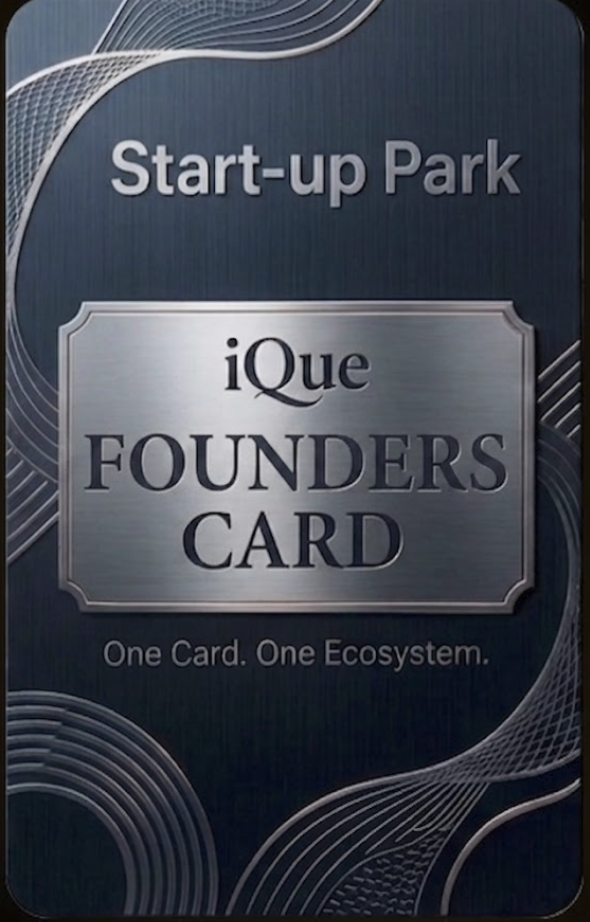
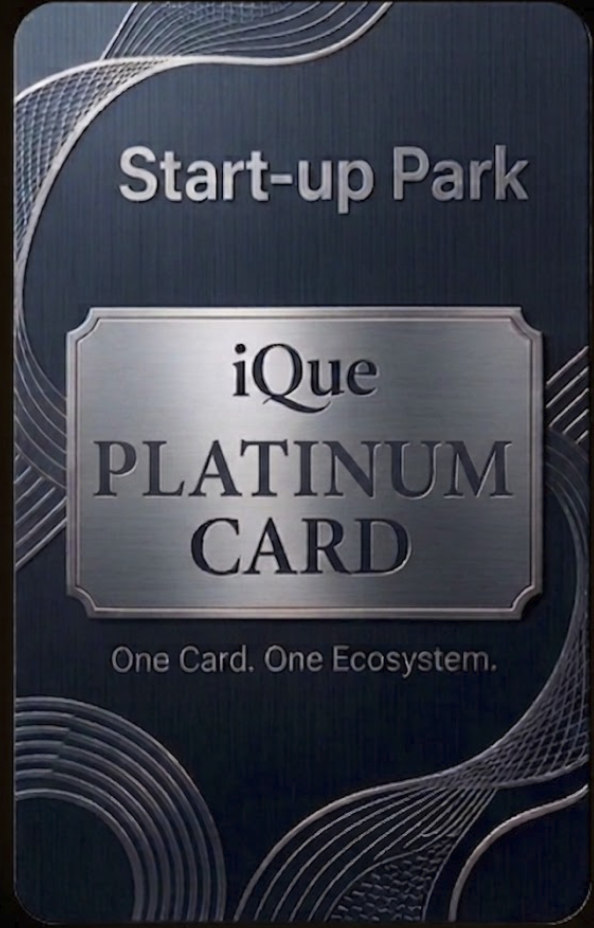
cards

diff --git a/src/Pages/InvestorCard.jsx b/src/Pages/InvestorCard.jsx
@@ -1,17 +1,5 @@
-import React, { Suspense } from "react";
-import { Canvas } from "@react-three/fiber";
-import { useGLTF, Center, Float, Environment } from "@react-three/drei";
+import React from "react";
 import { CheckCircle2 } from "lucide-react";
-
-function FoundersCard() {
-  const { scene } = useGLTF("/card.glb");
-
-  return (
-    <Center>
-      <primitive object={scene} scale={1.4} />
-    </Center>
-  );
-}
 
 const benefits = [
   "1 seat for 1 month at Startup Park",
@@ -38,7 +26,7 @@ export default function CardSections({ onPreBook }) {
           {/* ── TOP SECTION: Cards side-by-side ── */}
           <div className="flex flex-col lg:flex-row items-center justify-center gap-8 lg:gap-12">
 
-            {/* ── Card 1: 3D Founders Card ── */}
+            {/* ── Card 1: Investors Card (image) ── */}
             <div className="flex flex-col items-center gap-4 w-full lg:w-auto">
               {/* Live badge */}
               <span className="inline-flex items-center gap-1.5 px-3 py-1 rounded-full border border-blue-500/40 bg-blue-500/10 text-blue-400 text-[10px] font-semibold uppercase tracking-widest">
@@ -46,26 +34,19 @@ export default function CardSections({ onPreBook }) {
                 Available Now
               </span>
 
-              {/* 3D Canvas - Fixed mobile height to prevent vh squishing */}
-              <div className="h-[380px] lg:h-[52vh] w-full max-w-xs lg:max-w-sm">
-                <Canvas
-                  camera={{ position: [0, 0, 5], fov: 40 }}
-                  dpr={[1, 1.25]}
-                  gl={{ antialias: false, powerPreference: "high-performance" }}
-                >
-                  <ambientLight intensity={0.5} />
-                  <pointLight position={[10, 10, 10]} intensity={1.2} color="#3b82f6" />
-                  <directionalLight position={[-5, 5, -2]} intensity={0.6} color="#6366f1" />
-                  <Suspense fallback={null}>
-                    <Float speed={1.2} rotationIntensity={0} floatIntensity={0.3}>
-                      <FoundersCard />
-                    </Float>
-                    <Environment preset="studio" />
-                  </Suspense>
-                </Canvas>
+              {/* Card image with float animation */}
+              <div className="relative h-[380px] lg:h-[52vh] w-full max-w-xs lg:max-w-sm flex items-center justify-center">
+                <div className="relative w-[80%] max-w-[260px] animate-float-card">
+                  <img
+                    src="/goldcard.png"
+                    alt="Investors Card"
+                    className="w-full h-auto object-contain drop-shadow-[0_8px_40px_rgba(59,130,246,0.25)] rounded-2xl"
+                    style={{ filter: "drop-shadow(0 0 24px rgba(59,130,246,0.18))" }}
+                  />
+                </div>
               </div>
 
-              <p className="text-neutral-400 text-xs tracking-wide font-medium">Investors Card</p>
+              <p className="text-neutral-400 text-xs tracking-wide font-medium">Investors Card Gold</p>
             </div>
 
             {/* ── Divider (vertical on desktop, horizontal on mobile) ── */}
@@ -88,13 +69,13 @@ export default function CardSections({ onPreBook }) {
                 Coming Soon
               </span>
 
-              {/* Card image with glow + shimmer overlay - Fixed mobile height */}
+              {/* Card image with glow + shimmer overlay */}
               <div className="relative h-[380px] lg:h-[52vh] w-full max-w-xs lg:max-w-sm flex items-center justify-center">
 
                 {/* Ambient glow behind card */}
                 <div className="absolute inset-0 rounded-2xl bg-gradient-to-br from-amber-500/10 via-transparent to-yellow-600/10 blur-2xl pointer-events-none" />
 
-                {/* Floating animation wrapper - Class conditionally animate via CSS */}
+                {/* Floating animation wrapper */}
                 <div className="relative w-[80%] max-w-[260px] animate-float-card">
                   {/* Frosted lock overlay */}
                   <div className="absolute inset-0 rounded-2xl z-10 bg-black/20 backdrop-blur-[1px] flex flex-col items-center justify-center gap-2 opacity-0 hover:opacity-100 transition-opacity duration-300">
@@ -114,7 +95,7 @@ export default function CardSections({ onPreBook }) {
 
                   {/* Actual card image */}
                   <img
-                    src="/investor.png"
+                    src="/founderscard.png"
                     alt="Premium Investor Card – Coming Soon"
                     className="w-full h-auto object-contain drop-shadow-[0_8px_40px_rgba(251,191,36,0.25)] rounded-2xl"
                     style={{ filter: "drop-shadow(0 0 24px rgba(251,191,36,0.18))" }}
@@ -122,7 +103,7 @@ export default function CardSections({ onPreBook }) {
                 </div>
               </div>
 
-              <p className="text-neutral-400 text-xs tracking-wide font-medium">Investor Card Gold</p>
+              <p className="text-neutral-400 text-xs tracking-wide font-medium">Investor Card Platinum</p>
             </div>
           </div>
 
@@ -134,7 +115,7 @@ export default function CardSections({ onPreBook }) {
               <h1 className="text-4xl md:text-5xl font-extrabold tracking-tight text-neutral-100 leading-tight">
                 The Next Gen <br />
                 <span className="text-transparent bg-clip-text bg-gradient-to-r from-neutral-100 to-neutral-400">
-                  Investor Card
+                  Investor Card 
                 </span>
               </h1>
               <p className="text-neutral-400 text-base leading-relaxed font-normal max-w-xl">
@@ -180,7 +161,6 @@ export default function CardSections({ onPreBook }) {
           0% { transform: translateX(-100%); }
           60%, 100% { transform: translateX(200%); }
         }
-        /* Mobile-static toggle */
         .animate-float-card {
           animation: floatY 3.5s ease-in-out infinite;
         }
@@ -194,5 +174,3 @@ export default function CardSections({ onPreBook }) {
     </>
   );
 }
-
-useGLTF.preload("/card.glb");

diff --git a/src/Pages/Membership.jsx b/src/Pages/Membership.jsx
@@ -1,17 +1,5 @@
-import React, { Suspense } from "react";
-import { Canvas } from "@react-three/fiber";
-import { useGLTF, Center, Float, Environment } from "@react-three/drei";
+import React from "react";
 import { CheckCircle2 } from "lucide-react";
-
-function FoundersCard() {
-  const { scene } = useGLTF("/card.glb");
-
-  return (
-    <Center>
-      <primitive object={scene} scale={1.4} />
-    </Center>
-  );
-}
 
 const benefits = [
   "1 seat for 1 month at Startup Park",
@@ -20,7 +8,7 @@ const benefits = [
   "Branding and personal branding benefits",
   "Media and advertising support",
   "Incubation workshop access",
-  "Founders community membership",
+  "Inverstors community membership",
   "Startup tools and software offers",
   "Skill and career support",
   "HR training",
@@ -38,7 +26,7 @@ export default function CardSections({ onPreBook }) {
           {/* ── TOP SECTION: Cards side-by-side ── */}
           <div className="flex flex-col lg:flex-row items-center justify-center gap-8 lg:gap-12">
 
-            {/* ── Card 1: 3D Founders Card ── */}
+            {/* ── Card 1: Investors Card (image) ── */}
             <div className="flex flex-col items-center gap-4 w-full lg:w-auto">
               {/* Live badge */}
               <span className="inline-flex items-center gap-1.5 px-3 py-1 rounded-full border border-blue-500/40 bg-blue-500/10 text-blue-400 text-[10px] font-semibold uppercase tracking-widest">
@@ -46,26 +34,19 @@ export default function CardSections({ onPreBook }) {
                 Available Now
               </span>
 
-              {/* 3D Canvas - Fixed height on mobile to prevent squishing */}
-              <div className="h-[380px] lg:h-[52vh] w-full max-w-xs lg:max-w-sm">
-                <Canvas
-                  camera={{ position: [0, 0, 5], fov: 40 }}
-                  dpr={[1, 1.25]}
-                  gl={{ antialias: false, powerPreference: "high-performance" }}
-                >
-                  <ambientLight intensity={0.5} />
-                  <pointLight position={[10, 10, 10]} intensity={1.2} color="#3b82f6" />
-                  <directionalLight position={[-5, 5, -2]} intensity={0.6} color="#6366f1" />
-                  <Suspense fallback={null}>
-                    <Float speed={1.2} rotationIntensity={0} floatIntensity={0.3}>
-                      <FoundersCard />
-                    </Float>
-                    <Environment preset="studio" />
-                  </Suspense>
-                </Canvas>
+              {/* Card image with float animation */}
+              <div className="relative h-[380px] lg:h-[52vh] w-full max-w-xs lg:max-w-sm flex items-center justify-center">
+                <div className="relative w-[80%] max-w-[260px] animate-float-card">
+                  <img
+                    src="/goldcard.png"
+                    alt="Investors Card"
+                    className="w-full h-auto object-contain drop-shadow-[0_8px_40px_rgba(59,130,246,0.25)] rounded-2xl"
+                    style={{ filter: "drop-shadow(0 0 24px rgba(59,130,246,0.18))" }}
+                  />
+                </div>
               </div>
 
-              <p className="text-neutral-400 text-xs tracking-wide font-medium">Founders Card</p>
+              <p className="text-neutral-400 text-xs tracking-wide font-medium">Founder Card Gold</p>
             </div>
 
             {/* ── Divider (vertical on desktop, horizontal on mobile) ── */}
@@ -88,13 +69,13 @@ export default function CardSections({ onPreBook }) {
                 Coming Soon
               </span>
 
-              {/* Card image with glow + shimmer overlay - Fixed height on mobile */}
+              {/* Card image with glow + shimmer overlay */}
               <div className="relative h-[380px] lg:h-[52vh] w-full max-w-xs lg:max-w-sm flex items-center justify-center">
 
                 {/* Ambient glow behind card */}
                 <div className="absolute inset-0 rounded-2xl bg-gradient-to-br from-amber-500/10 via-transparent to-yellow-600/10 blur-2xl pointer-events-none" />
 
-                {/* Floating animation wrapper - Class conditionally animate via CSS */}
+                {/* Floating animation wrapper */}
                 <div className="relative w-[80%] max-w-[260px] animate-float-card">
                   {/* Frosted lock overlay */}
                   <div className="absolute inset-0 rounded-2xl z-10 bg-black/20 backdrop-blur-[1px] flex flex-col items-center justify-center gap-2 opacity-0 hover:opacity-100 transition-opacity duration-300">
@@ -122,7 +103,7 @@ export default function CardSections({ onPreBook }) {
                 </div>
               </div>
 
-              <p className="text-neutral-400 text-xs tracking-wide font-medium">Founder Card Gold</p>
+              <p className="text-neutral-400 text-xs tracking-wide font-medium">Founder Card Platinum</p>
             </div>
           </div>
 
@@ -180,7 +161,6 @@ export default function CardSections({ onPreBook }) {
           0% { transform: translateX(-100%); }
           60%, 100% { transform: translateX(200%); }
         }
-        /* Mobile-static toggle */
         .animate-float-card {
           animation: floatY 3.5s ease-in-out infinite;
         }
@@ -194,5 +174,3 @@ export default function CardSections({ onPreBook }) {
     </>
   );
 }
-
-useGLTF.preload("/card.glb");

diff --git a/src/Components/Footer.jsx b/src/Components/Footer.jsx
@@ -236,6 +236,29 @@ export default function HyperAnimatedFooter() {
               </a>
             ))}
           </div>
+
+          {/* Address Block */}
+          <div style={{ display: 'flex', flexDirection: 'column', gap: '0.4rem', marginTop: '0.25rem' }}>
+            <div style={{ display: 'flex', alignItems: 'center', gap: '0.5rem', marginBottom: '0.3rem' }}>
+              <div style={{ width: '6px', height: '6px', background: '#64c8ff' }} />
+              <span style={{ fontSize: '0.65rem', fontWeight: 900, letterSpacing: '0.3em', textTransform: 'uppercase', color: '#64c8ff' }}>Location //</span>
+            </div>
+            <p style={{
+              fontSize: '0.8rem',
+              lineHeight: 1.7,
+              color: 'rgba(255,255,255,0.35)',
+              margin: 0,
+              maxWidth: '280px'
+            }}>
+              Total Mall, Police Station,<br />
+              Opposite to Madiwala,<br />
+              Sidharata Colony, Santhosapuram,<br />
+              Koramangala 2nd Block,<br />
+              Koramangala, Bengaluru,<br />
+              Karnataka 560068
+            </p>
+          </div>
+
         </div>
 
       </div>
